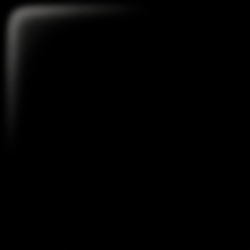
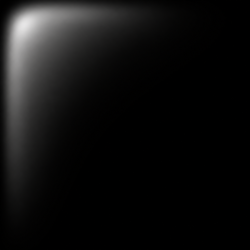
Match diffuse Mix V1 reflection

Changed region(s): [[0.0, 0.0, 0.588, 0.756]]

diff --git a/src/kidsModeV2/videoui.c b/src/kidsModeV2/videoui.c
@@ -87,6 +87,7 @@
 #define ICON_X_PATH "/mnt/SDCARD/App/KidsModeV2/icon-X-54.png"
 #define SCREEN_REFLECTION_PATH \
     "/mnt/SDCARD/App/KidsModeV2/screen-reflection.png"
+#define SCREEN_REFLECTION_OPACITY_PERCENT 45
 
 typedef enum { SCREEN_CAROUSEL,
                SCREEN_PIN,
@@ -484,9 +485,9 @@ static SDL_Surface *loadScreenReflection(int size)
     if (scaled == NULL)
         return NULL;
 
-    // scaleAlphaSurface produces ARGB8888. The matte peaks around the same
-    // medium grey measured in the references, so its luminance can be used
-    // directly as the white overlay's opacity without another multiplier.
+    // scaleAlphaSurface produces ARGB8888. The source is deliberately broad
+    // and bright so its soft gradient survives scaling; use the calibrated
+    // fraction below to match the subtler ScreenScraper Mix V1 reflection.
     uint32_t *pixels = (uint32_t *)scaled->pixels;
     int pitch = scaled->pitch / 4;
     for (int y = 0; y < scaled->h; y++) {
@@ -495,7 +496,10 @@ static SDL_Surface *loadScreenReflection(int size)
             uint32_t red = (pixel >> 16) & 0xFF;
             uint32_t green = (pixel >> 8) & 0xFF;
             uint32_t blue = pixel & 0xFF;
-            uint32_t alpha = (red * 30 + green * 59 + blue * 11 + 50) / 100;
+            uint32_t luminance =
+                (red * 30 + green * 59 + blue * 11 + 50) / 100;
+            uint32_t alpha =
+                (luminance * SCREEN_REFLECTION_OPACITY_PERCENT + 50) / 100;
             if (alpha < 2)
                 alpha = 0;
             pixels[y * pitch + x] = (alpha << 24) | 0x00FFFFFF;
